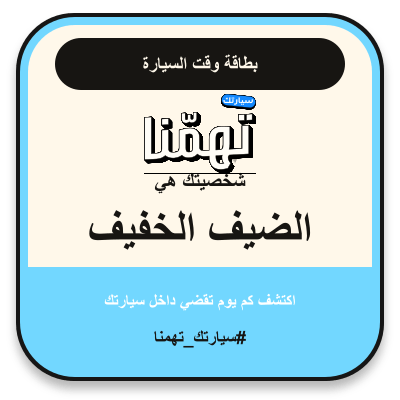
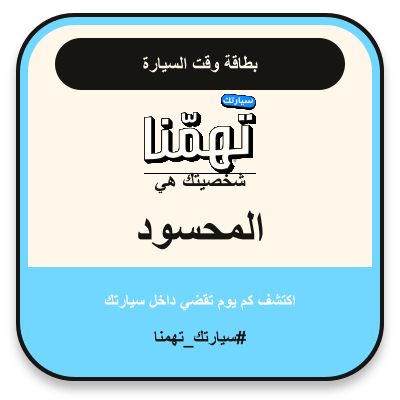
Update Riyadh traffic personalities

Changed region(s): [[0.21, 0.51, 0.78, 0.63]]

diff --git a/lib/campaign-config.ts b/lib/campaign-config.ts
@@ -41,12 +41,12 @@ export const campaignConfig = {
       id: "meme-tier-1",
       min: 1,
       max: 25,
-      name: "الضيف الخفيف",
-      message: "سيارتك للحين ما لحقت تحفظ اسمك.",
+      name: "المحسود",
+      message: "ترا كل أهل الرياض حاسدينك.",
       image: "/memes/meme-tier-1.webp",
       emoji: "👋",
       accent: "#72d7ff",
-      alt: "صورة تعبيرية لشخصية الضيف الخفيف",
+      alt: "صورة تعبيرية لشخصية المحسود",
     },
     {
       id: "meme-tier-2",
@@ -63,45 +63,34 @@ export const campaignConfig = {
       id: "meme-tier-3",
       min: 41,
       max: 45,
-      name: "مشوار على السريع",
-      message: "تدخل السيارة وتطلع قبل لا تخلص الأغنية.",
+      name: "المحظوظ",
+      message: "ساكن جنب كل شيء.",
       image: "/memes/meme-tier-3.webp",
       emoji: "⚡",
       accent: "#ffb238",
-      alt: "صورة تعبيرية لشخصية مشوار على السريع",
+      alt: "صورة تعبيرية لشخصية المحظوظ",
     },
     {
       id: "meme-tier-4",
       min: 46,
-      max: 50,
-      name: "رفيق الإشارة",
-      message: "الإشارة تعرفك… بس للحين ما حفظت رقم لوحتك.",
+      max: 55,
+      name: "جديد عالزحمة",
+      message: "توك ما شفت شيء.",
       image: "/memes/meme-tier-4.webp",
       emoji: "🚦",
       accent: "#ff7a50",
-      alt: "صورة تعبيرية لشخصية رفيق الإشارة",
-    },
-    {
-      id: "meme-tier-5",
-      min: 51,
-      max: 55,
-      name: "خبير الاختصارات",
-      message: "تعرف كل لفة سرية… وتعلق فيها بعد.",
-      image: "/memes/meme-tier-5.webp",
-      emoji: "🗺",
-      accent: "#b99cff",
-      alt: "صورة تعبيرية لشخصية خبير الاختصارات",
+      alt: "صورة تعبيرية لشخصية جديد عالزحمة",
     },
     {
       id: "meme-tier-6",
       min: 56,
       max: 60,
-      name: "ابن الطريق",
-      message: "واضح إن السيارة جزء رسمي من جدولك اليومي.",
+      name: "مدرك الإشارات",
+      message: "حافظ كل إشارة في دربك.",
       image: "/memes/meme-tier-6.webp",
       emoji: "😎",
       accent: "#ff5a1f",
-      alt: "صورة تعبيرية لشخصية ابن الطريق",
+      alt: "صورة تعبيرية لشخصية مدرك الإشارات",
     },
     {
       id: "meme-tier-7",
@@ -118,12 +107,12 @@ export const campaignConfig = {
       id: "meme-tier-8",
       min: 71,
       max: 75,
-      name: "مندوب نفسه",
-      message: "كل يوم عندك توصيل… حتى لو ما طلب منك أحد.",
+      name: "شيخ المخارج",
+      message: "ما بقى اختصار ما جربته.",
       image: "/memes/meme-tier-8.webp",
       emoji: "📦",
       accent: "#1389ff",
-      alt: "صورة تعبيرية لشخصية مندوب نفسه",
+      alt: "صورة تعبيرية لشخصية شيخ المخارج",
     },
     {
       id: "meme-tier-9",
@@ -140,23 +129,23 @@ export const campaignConfig = {
       id: "meme-tier-10",
       min: 81,
       max: 85,
-      name: "مدير المشاوير",
-      message: "جدولك مو مواعيد… جدولك مخارج ودوارات.",
+      name: "ساكن في الدائري",
+      message: "مصبح ممسي في الدائري.",
       image: "/memes/meme-tier-10.webp",
       emoji: "📋",
       accent: "#ff7a50",
-      alt: "صورة تعبيرية لشخصية مدير المشاوير",
+      alt: "صورة تعبيرية لشخصية ساكن في الدائري",
     },
     {
       id: "meme-tier-11",
       min: 86,
       max: 90,
-      name: "خبير الزحمة",
-      message: "تعرف الزحمة من صوت البوري قبل تشوفها.",
+      name: "راعي الهواجيس",
+      message: "فكرة رايحة وفكرة جاية وأنت للحين ما وصلت.",
       image: "/memes/meme-tier-11.webp",
       emoji: "🚗",
       accent: "#b99cff",
-      alt: "صورة تعبيرية لشخصية خبير الزحمة",
+      alt: "صورة تعبيرية لشخصية راعي الهواجيس",
     },
     {
       id: "meme-tier-12",
@@ -173,12 +162,12 @@ export const campaignConfig = {
       id: "meme-tier-13",
       min: 96,
       max: 100,
-      name: "دوام متنقل",
-      message: "ناقص تحط بصمة حضور على الدركسون.",
+      name: "ضحية الدائري",
+      message: "لا وصلت بدري ولا رجعت.",
       image: "/memes/meme-tier-13.webp",
       emoji: "💼",
       accent: "#72d7ff",
-      alt: "صورة تعبيرية لشخصية دوام متنقل",
+      alt: "صورة تعبيرية لشخصية ضحية الدائري",
     },
     {
       id: "meme-tier-14",
@@ -195,45 +184,45 @@ export const campaignConfig = {
       id: "meme-tier-15",
       min: 131,
       max: 160,
-      name: "مستأجر السيارة",
-      message: "واضح تدفع الإيجار بالبنزين والكيلومترات.",
+      name: "خوي المحطات",
+      message: "فلوسك راحت على البنزين.",
       image: "/memes/meme-tier-15.webp",
       emoji: "🔑",
       accent: "#ffb238",
-      alt: "صورة تعبيرية لشخصية مستأجر السيارة",
+      alt: "صورة تعبيرية لشخصية خوي المحطات",
     },
     {
       id: "meme-tier-16",
       min: 161,
       max: 190,
-      name: "صاحب المجلس المتنقل",
-      message: "السيارة عندك مجلس ومكتب وغرفة انتظار.",
+      name: "راعي خطوط",
+      message: "يبي لك تحسن علاقتك مع الناس.",
       image: "/memes/meme-tier-16.webp",
       emoji: "🛋",
       accent: "#ff7a50",
-      alt: "صورة تعبيرية لشخصية صاحب المجلس المتنقل",
+      alt: "صورة تعبيرية لشخصية راعي خطوط",
     },
     {
       id: "meme-tier-17",
       min: 191,
       max: 220,
-      name: "مالك العقار",
-      message: "خلاص، نطلع لك صك على السيارة؟",
+      name: "الكداد",
+      message: "يبي لك تغير زيت كل مشوار.",
       image: "/memes/meme-tier-17.webp",
       emoji: "🏠",
       accent: "#b99cff",
-      alt: "صورة تعبيرية لشخصية مالك العقار",
+      alt: "صورة تعبيرية لشخصية الكداد",
     },
     {
       id: "meme-tier-18",
       min: 221,
       max: 240,
-      name: "شيخ الخطوط",
-      message: "الطرق كلها تعرفك… باقي يسلمون عليك عند المخرج.",
+      name: "المراثوني",
+      message: "ماخذ الدائري ماراثون رايح جاي.",
       image: "/memes/meme-tier-18.webp",
       emoji: "👑",
       accent: "#ff5a1f",
-      alt: "صورة تعبيرية لشخصية شيخ الخطوط",
+      alt: "صورة تعبيرية لشخصية المراثوني",
     },
   ] satisfies ResultTier[],
 };

diff --git a/app/page.tsx b/app/page.tsx
@@ -107,6 +107,7 @@ export default function Home() {
   const days = useMemo(() => (minutes * 365) / 1440, [minutes]);
   const hours = useMemo(() => Math.round((minutes * 365) / 60), [minutes]);
   const tier = useMemo(() => getTier(minutes), [minutes]);
+  const tierPosition = useMemo(() => campaignConfig.tiers.findIndex((item) => item.id === tier.id) + 1, [tier.id]);
   const displayName = useMemo(() => nameInput.trim().replace(/\s+/g, " "), [nameInput]);
   const snapShareUrl = useMemo(() => {
     const params = new URLSearchParams({ name: displayName, days: formatNumber(days), tier: tier.name, v: "2" });
@@ -255,13 +256,12 @@ export default function Home() {
     ctx.direction = "rtl";
     ctx.textAlign = "right";
     ctx.drawImage(brandLogo, 827, 88, 120, 86);
-    const tierNumber = Number(tier.id.match(/\d+/)?.[0] ?? 1);
     ctx.fillStyle = campaignConfig.colors.cream;
     ctx.font = '900 37px "Lama Sans", Arial';
     ctx.fillText("بطاقة وقت السيارة", 730, 120);
     ctx.fillStyle = "rgba(255,248,234,.66)";
     ctx.font = '700 23px "Lama Sans", Arial';
-    ctx.fillText(`إصدار تهمنا  •  ${String(tierNumber).padStart(2, "0")} / 18`, 730, 163);
+    ctx.fillText(`إصدار تهمنا  •  ${String(tierPosition).padStart(2, "0")} / ${campaignConfig.tiers.length}`, 730, 163);
     ctx.fillStyle = accent;
     fillRoundRect(80, 82, 190, 58, 29);
     ctx.fillStyle = "#fff";
@@ -554,7 +554,7 @@ export default function Home() {
           </div>
 
           <div className="share-card" style={{ "--share-accent": tier.accent } as React.CSSProperties}>
-            <div className="share-card-topline"><span>بطاقتك صارت جاهزة</span><b>#{String(Number(tier.id.match(/\d+/)?.[0] ?? 1)).padStart(2, "0")}/18</b></div>
+            <div className="share-card-topline"><span>بطاقتك صارت جاهزة</span><b>#{String(tierPosition).padStart(2, "0")}/{campaignConfig.tiers.length}</b></div>
             <div className="share-card-copy">
               <span className="share-card-mark" aria-hidden="true">✦</span>
               <div><h2>خلّ بطاقتك تنتشر.</h2><p>صورة ستوري كاملة باسمك ورياكشن شخصيتك.</p></div>
